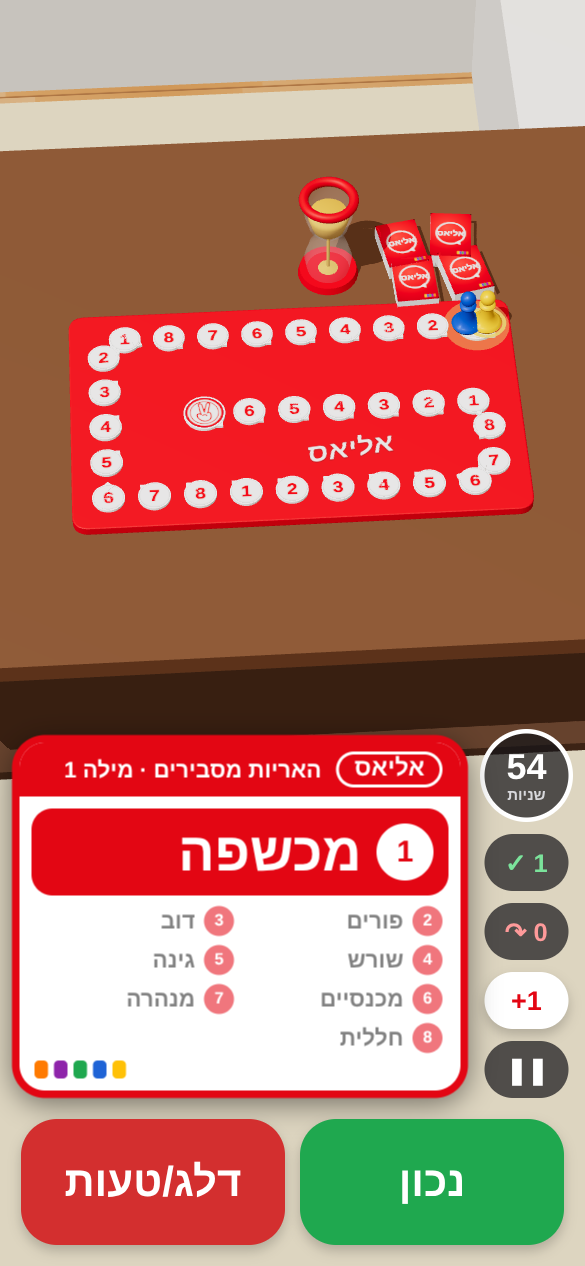
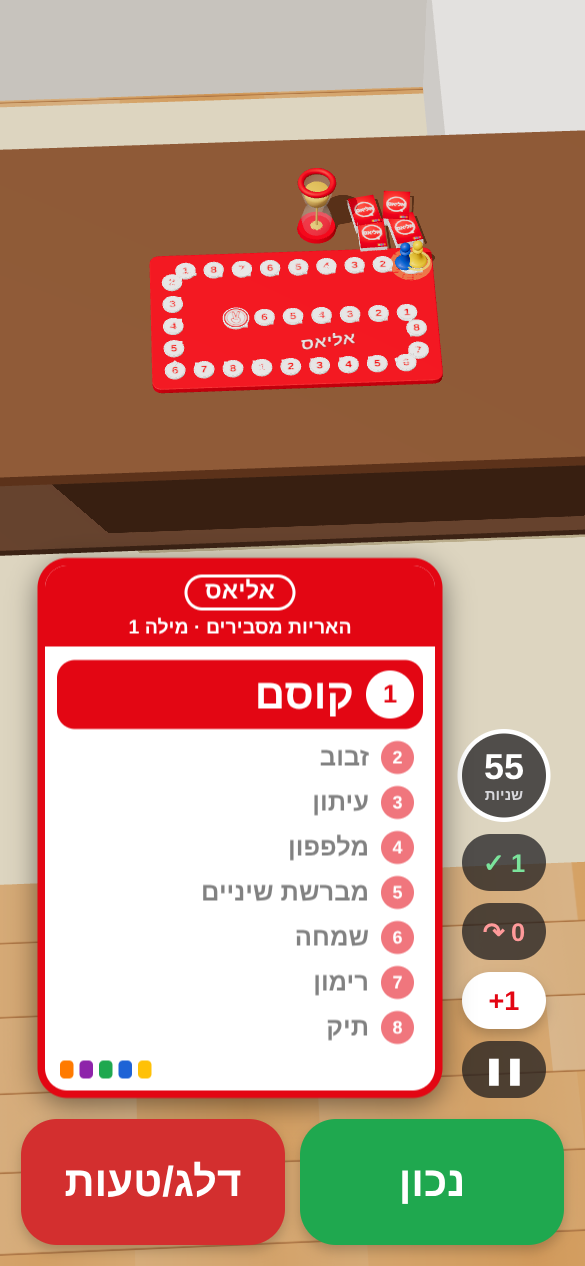
Show the word card in portrait, words listed 1-8 top to bottom
Like the physical Alias card: a narrow, tall card with all eight words
one under another in ascending order; the team's word keeps its place
in the list and is enlarged on a red band.

Claude-Session: https://claude.ai/code/session_01MNZKXkv2nYv4CvAcCgStRR

diff --git a/src/components/WordCard.tsx b/src/components/WordCard.tsx
@@ -78,32 +78,28 @@ export function WordCard({ title, words, highlight, leaving, onGone, covered }: 
           <Text style={styles.coveredText}>המשחק מושהה</Text>
         </View>
       ) : (
-        <>
-          {/* The team's word: big, on the red band. */}
-          <View style={styles.mine}>
-            <View style={styles.numMine}>
-              <Text style={styles.numTextMine}>{highlight + 1}</Text>
-            </View>
-            <Text style={styles.wordMine} numberOfLines={1} adjustsFontSizeToFit minimumFontScale={0.5}>
-              {words[highlight]}
-            </Text>
-          </View>
-          {/* The rest of the card, small, in two columns (numbers in card order). */}
-          <View style={styles.grid}>
-            {words.map((w, i) =>
-              i === highlight ? null : (
-                <View key={i} style={styles.cell}>
-                  <View style={styles.num}>
-                    <Text style={styles.numText}>{i + 1}</Text>
-                  </View>
-                  <Text style={styles.word} numberOfLines={1}>
-                    {w}
-                  </Text>
+        // All 8 words one under another, in order 1–8, like a real Alias card;
+        // the team's word stays in its place but is big and on a red band.
+        <View style={styles.rows}>
+          {words.map((w, i) => {
+            const mine = i === highlight;
+            return (
+              <View key={i} style={[styles.row, mine ? styles.rowMine : styles.rowOther]}>
+                <View style={[styles.num, mine && styles.numMine]}>
+                  <Text style={[styles.numText, mine && styles.numTextMine]}>{i + 1}</Text>
                 </View>
-              ),
-            )}
-          </View>
-        </>
+                <Text
+                  style={[styles.word, mine && styles.wordMine]}
+                  numberOfLines={1}
+                  adjustsFontSizeToFit
+                  minimumFontScale={0.5}
+                >
+                  {w}
+                </Text>
+              </View>
+            );
+          })}
+        </View>
       )}
       <View style={styles.bars}>
         {['#FFC107', '#1E63D6', '#1FA84F', '#8E24AA', '#FF7A00'].map((c) => (
@@ -116,11 +112,12 @@ export function WordCard({ title, words, highlight, leaving, onGone, covered }: 
 
 const styles = StyleSheet.create({
   card: {
+    // Portrait, like the physical card.
     width: '100%',
-    maxWidth: 400,
+    maxWidth: 270,
     alignSelf: 'center',
     backgroundColor: colors.white,
-    borderRadius: 22,
+    borderRadius: 20,
     borderWidth: 5,
     borderColor: colors.red,
     overflow: 'hidden',
@@ -130,56 +127,39 @@ const styles = StyleSheet.create({
     elevation: 14,
   },
   header: {
-    flexDirection: 'row',
     alignItems: 'center',
-    gap: 10,
+    gap: 3,
     backgroundColor: colors.red,
-    paddingHorizontal: 12,
+    paddingHorizontal: 10,
     paddingVertical: 6,
   },
   bubble: {
     borderWidth: 2.5,
     borderColor: colors.white,
     borderRadius: radius.pill,
-    paddingHorizontal: 10,
+    paddingHorizontal: 12,
     paddingVertical: 1,
   },
   bubbleText: { color: colors.white, fontWeight: '900', fontSize: 16 },
-  headerText: { color: colors.white, fontWeight: '800', fontSize: 15, flex: 1 },
-  mine: {
-    flexDirection: 'row',
-    alignItems: 'center',
-    gap: 10,
-    backgroundColor: colors.red,
-    borderRadius: 14,
-    margin: 8,
-    marginBottom: 4,
-    paddingVertical: 8,
-    paddingHorizontal: 10,
-  },
-  numMine: {
-    width: 38,
-    height: 38,
-    borderRadius: 19,
-    backgroundColor: colors.white,
-    alignItems: 'center',
-    justifyContent: 'center',
-  },
-  numTextMine: { color: colors.red, fontWeight: '900', fontSize: 20 },
-  wordMine: { flex: 1, fontSize: 36, fontWeight: '900', color: colors.white },
-  grid: { flexDirection: 'row', flexWrap: 'wrap', paddingHorizontal: 8, opacity: 0.55 },
-  cell: { width: '50%', flexDirection: 'row', alignItems: 'center', gap: 6, paddingVertical: 3, paddingHorizontal: 4 },
+  headerText: { color: colors.white, fontWeight: '800', fontSize: 13 },
+  rows: { paddingVertical: 6, paddingHorizontal: 8, gap: 2 },
+  row: { flexDirection: 'row', alignItems: 'center', gap: 8, paddingHorizontal: 6, paddingVertical: 3 },
+  rowOther: { opacity: 0.55 },
+  rowMine: { backgroundColor: colors.red, borderRadius: 12, paddingVertical: 7, marginVertical: 3 },
   num: {
-    width: 20,
-    height: 20,
-    borderRadius: 10,
+    width: 22,
+    height: 22,
+    borderRadius: 11,
     backgroundColor: colors.red,
     alignItems: 'center',
     justifyContent: 'center',
   },
-  numText: { color: colors.white, fontWeight: '900', fontSize: 11 },
-  word: { flex: 1, fontSize: 15, fontWeight: '700', color: colors.ink },
-  covered: { height: 160, alignItems: 'center', justifyContent: 'center' },
+  numMine: { width: 32, height: 32, borderRadius: 16, backgroundColor: colors.white },
+  numText: { color: colors.white, fontWeight: '900', fontSize: 12 },
+  numTextMine: { color: colors.red, fontSize: 17 },
+  word: { flex: 1, fontSize: 17, fontWeight: '700', color: colors.ink },
+  wordMine: { fontSize: 28, fontWeight: '900', color: colors.white },
+  covered: { height: 270, alignItems: 'center', justifyContent: 'center' },
   coveredText: { fontSize: 26, fontWeight: '800', color: colors.muted },
   bars: { flexDirection: 'row', gap: 4, alignSelf: 'flex-end', paddingHorizontal: 10, paddingBottom: 8, paddingTop: 2 },
   bar: { width: 9, height: 12, borderRadius: 3 },

diff --git a/src/screens/stage/TurnPanel.tsx b/src/screens/stage/TurnPanel.tsx
@@ -25,7 +25,7 @@ function buzz(kind: WordResult | 'timeUp') {
 }
 
 /** Room for the card between the table and the buttons. */
-const CARD_AREA = 262;
+const CARD_AREA = 362;
 
 interface LeavingCard {
   key: number;
@@ -213,7 +213,7 @@ const styles = StyleSheet.create({
     alignItems: 'flex-end',
     alignSelf: 'center',
     width: '100%',
-    maxWidth: 500,
+    maxWidth: 360,
     paddingHorizontal: 8,
     gap: 8,
   },

diff --git a/README.md b/README.md
@@ -55,7 +55,7 @@ After setup, the whole game is played on one full-screen 3D table (three.js thro
 - **Board:** raised speech-bubble squares numbered **1–8 over and over**, a glowing start and the ✌ finish. The spiral track is sized to the chosen finish square (20–50).
 - **Camera:** drag with a finger or the mouse to orbit around the board; pinch or use the mouse wheel to zoom. The camera always aims at the middle of the table and keeps the whole table in view in the space between the panels, from any angle. ⟲ resets the view.
 - **Sand timer = turn clock:** when a turn starts it flips over, then the sand runs from the top bulb to the bottom for exactly the turn length. The clock starts once the flip finishes.
-- **Cards:** a card lifts off the deck and flies up, then appears at the bottom of the screen with its 8 words. The team's word (by square number) is big on a red band. נכון / דלג send it away and the next card rises.
+- **Cards:** a card lifts off the deck and flies up, then appears at the bottom of the screen as a portrait card listing its 8 words from 1 to 8. The team's word (by square number) stays in its place but is big on a red band. נכון / דלג send it away and the next card rises.
 - **Living room:** the board sits on a coffee table in a 3D living room (wood floor, rug, sofas, pictures, lamps, a curtained window, TV, plant). Walls between the camera and the table disappear, so orbiting never hides the board. Zoom out to see the whole room.
 - **Turn status:** no top bar during a turn. The seconds, ✓ / ↷ counts, points and pause float to the right of the card.
 - **Pawns:** each team's pawn hops square by square after every turn. The next team has a glowing ring, and the winner's pawn dances.
